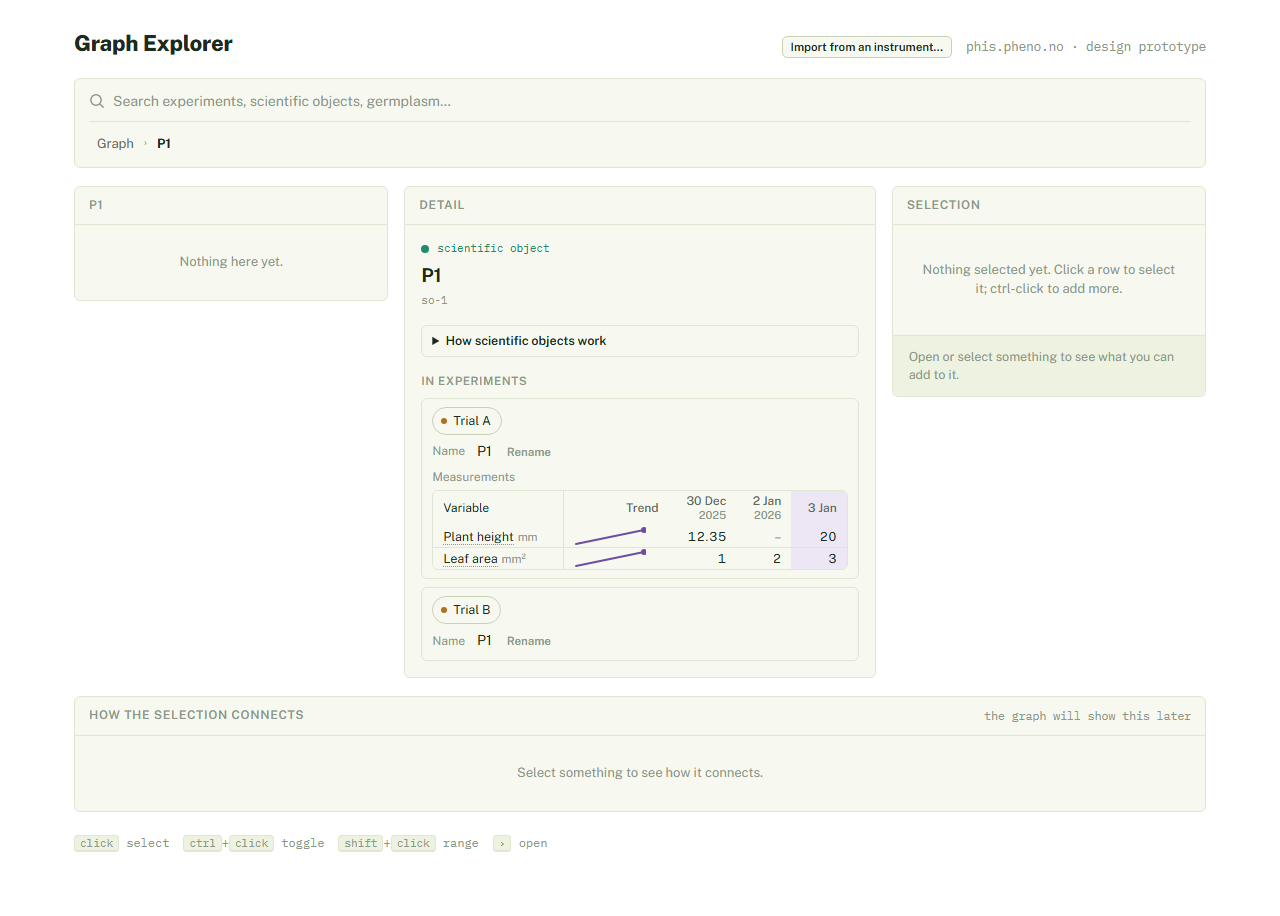
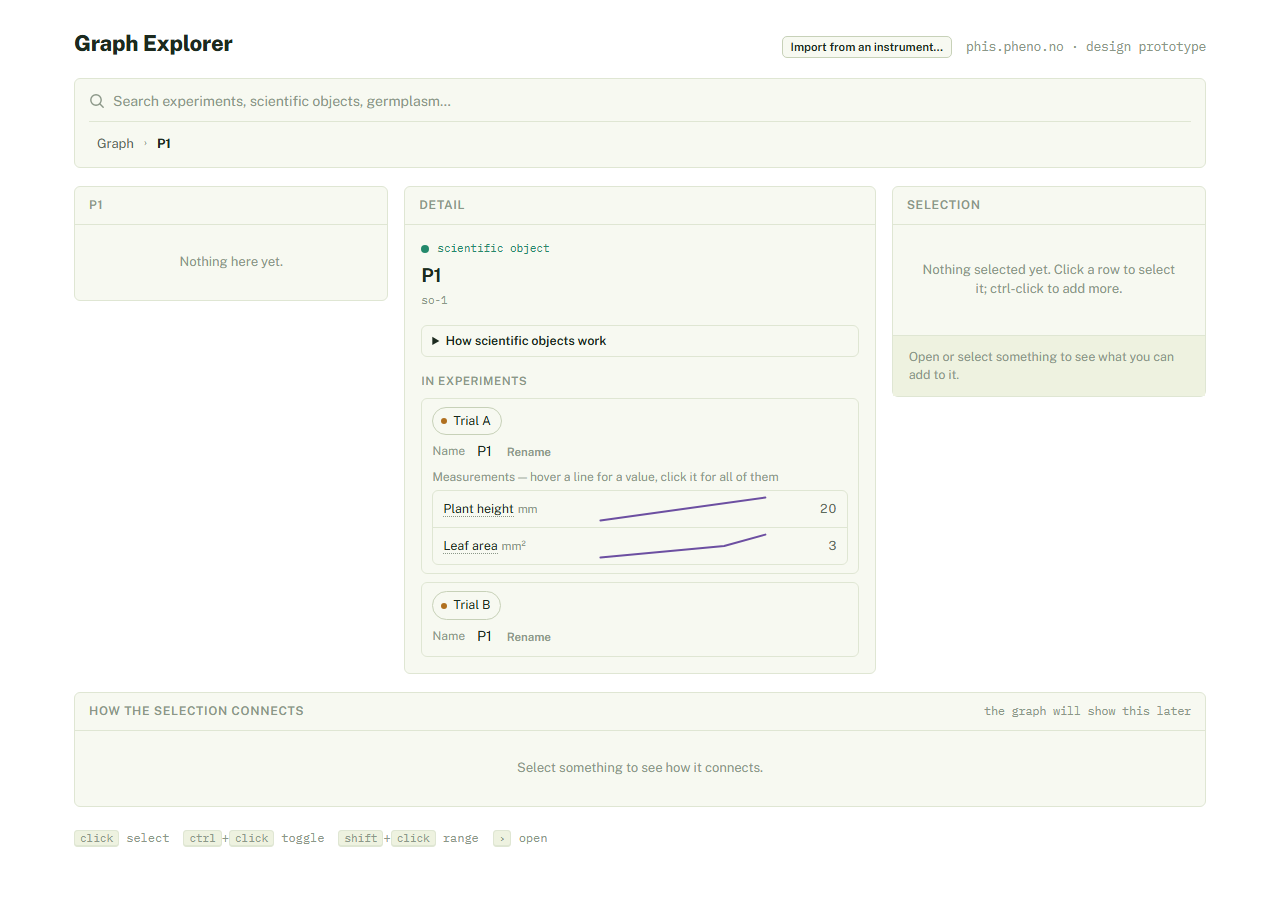
feat(graph-explorer): measurements as trend lines — hover for a value, click for the full picture

diff --git a/graph-explorer/public/index.html b/graph-explorer/public/index.html
@@ -457,25 +457,40 @@ button { font-family: inherit; }
 .item-box-rows { display: grid; grid-template-columns: max-content 1fr; gap: 6px 12px; align-items: center; }
 .item-box-key { font-size: 12px; color: var(--ink-faint); }
 .meas-title { font-size: 12px; color: var(--ink-faint); margin-bottom: 4px; }
-.meas-scroll { overflow-x: auto; border: 1px solid var(--border); border-radius: var(--radius); }
-.meas-table { border-collapse: separate; border-spacing: 0; font-size: 12.5px; width: max-content; min-width: 100%; }
-.meas-table th, .meas-table td { padding: 3px 10px; white-space: nowrap; border-bottom: 1px solid var(--border); }
-.meas-table tr:last-child th, .meas-table tr:last-child td { border-bottom: none; }
-.meas-table thead th { font-weight: 500; color: var(--ink-muted); text-align: right; font-size: 12px; line-height: 1.25; }
-.meas-table thead th small { display: block; color: var(--ink-faint); font-size: 11px; }
-.meas-table .meas-var { position: sticky; left: 0; z-index: 1; background: var(--surface); text-align: left; font-weight: 400; color: var(--ink); border-right: 1px solid var(--border); }
-.meas-table .meas-var a { color: var(--ink); cursor: pointer; text-decoration: none; border-bottom: 1px dotted var(--ink-faint); }
-.meas-table .meas-var a:hover { border-bottom-color: var(--ink); }
-.meas-table .meas-unit { color: var(--ink-faint); margin-left: 4px; font-size: 11.5px; }
-.meas-table td.num { text-align: right; font-variant-numeric: tabular-nums; color: var(--ink); }
-.meas-table td.none { color: var(--ink-faint); text-align: right; }
-.meas-table td.spark { padding: 0 10px; }
-.meas-table .col-on { background: var(--type-data-soft); }
-.meas-table .meas-var.col-on { background: var(--surface); }
-.meas-spark { display: block; }
-.meas-spark polyline { fill: none; stroke: var(--type-data); stroke-width: 2; stroke-linejoin: round; stroke-linecap: round; }
-.meas-spark circle { fill: var(--type-data); display: none; }
-.meas-spark circle.on { display: block; }
+.meas-list { display: flex; flex-direction: column; border: 1px solid var(--border); border-radius: var(--radius); }
+.meas-row { display: grid; grid-template-columns: minmax(130px, 36%) 1fr 56px; gap: 12px; align-items: center; padding: 3px 10px; border-bottom: 1px solid var(--border); font-size: 12.5px; }
+.meas-row:last-child { border-bottom: none; }
+.meas-name { min-width: 0; overflow-wrap: anywhere; }
+.meas-name a { color: var(--ink); cursor: pointer; border-bottom: 1px dotted var(--ink-faint); }
+.meas-name a:hover { border-bottom-color: var(--ink); }
+.meas-unit { color: var(--ink-faint); margin-left: 4px; font-size: 11.5px; }
+.meas-last { text-align: right; font-variant-numeric: tabular-nums; color: var(--ink-muted); }
+.meas-chart { position: relative; height: 30px; cursor: pointer; }
+.meas-chart.none { cursor: default; color: var(--ink-faint); font-size: 11.5px; line-height: 30px; }
+.meas-chart svg { position: absolute; inset: 0; width: 100%; height: 100%; overflow: visible; }
+.meas-chart polyline { fill: none; stroke: var(--type-data); stroke-width: 2; stroke-linejoin: round; stroke-linecap: round; }
+.meas-pt, .meas-dot { position: absolute; width: 7px; height: 7px; margin: -3.5px 0 0 -3.5px; border-radius: 50%; background: var(--type-data); pointer-events: none; }
+.meas-dot { width: 9px; height: 9px; margin: -4.5px 0 0 -4.5px; box-shadow: 0 0 0 3px var(--type-data-soft); }
+.meas-tip { position: absolute; bottom: 100%; margin-bottom: 4px; padding: 2px 7px; white-space: nowrap; font-size: 11.5px; background: var(--ink); color: var(--surface); border-radius: 4px; pointer-events: none; z-index: 5; }
+.meas-dialog { width: min(720px, 94vw); max-height: 90vh; padding: 16px 18px; border: 1px solid var(--border); border-radius: var(--radius); background: var(--surface); color: var(--ink); }
+.meas-dialog::backdrop { background: rgba(0, 0, 0, .45); }
+.meas-dlg-head { display: flex; justify-content: space-between; align-items: flex-start; gap: 12px; margin-bottom: 12px; }
+.meas-dlg-title { font-size: 16px; font-weight: 600; }
+.meas-dlg-sub { font-size: 12px; color: var(--ink-faint); margin-top: 2px; }
+.meas-chart.big { height: 220px; cursor: default; border: 1px solid var(--border); border-radius: var(--radius); }
+.meas-axis { position: absolute; left: 6px; font-size: 11px; color: var(--ink-faint); }
+.meas-axis.top { top: 4px; }
+.meas-axis.bottom { bottom: 4px; }
+.meas-axis-x { display: flex; justify-content: space-between; font-size: 11px; color: var(--ink-faint); margin: 4px 2px 12px; }
+.meas-stats { display: grid; grid-template-columns: repeat(auto-fit, minmax(90px, 1fr)); gap: 8px; margin-bottom: 12px; }
+.meas-stats div { display: flex; flex-direction: column; font-size: 11.5px; color: var(--ink-faint); }
+.meas-stats b { font-size: 14px; color: var(--ink); font-weight: 500; font-variant-numeric: tabular-nums; }
+.meas-values { max-height: 220px; overflow-y: auto; border: 1px solid var(--border); border-radius: var(--radius); }
+.meas-values table { width: 100%; border-collapse: collapse; font-size: 12.5px; }
+.meas-values th { position: sticky; top: 0; background: var(--surface); text-align: left; font-weight: 500; color: var(--ink-muted); }
+.meas-values th, .meas-values td { padding: 3px 10px; border-bottom: 1px solid var(--border); }
+.meas-values td:last-child, .meas-values th:last-child { text-align: right; font-variant-numeric: tabular-nums; }
+.meas-dlg-foot { margin-top: 12px; text-align: right; }
 .rel-empty { color: var(--ink-faint); font-size: 12.5px; }
 
 /* selection / CTA bar */
@@ -1927,7 +1942,7 @@ function renderNodeDetail(focusNode, { local } = { local: false }) {
     }
   };
   els.detailBody.querySelectorAll(".chip[data-openid]").forEach(chip => chip.addEventListener("click", (e) => onChipClick(chip, e)));
-  if (type === "scientific_object" && !unlinking) loadMeasurements(focusNode.id, onChipClick);
+  if (type === "scientific_object" && !unlinking) loadMeasurements(focusNode.id, focusNode.label, onChipClick);
 }
 
 // A plant's measured values in each experiment box: variables × scan dates, one row per variable
@@ -1938,37 +1953,81 @@ const UNIT_TEXT = { mm2: "mm²", mm3: "mm³" };
 const MONTHS = ["Jan", "Feb", "Mar", "Apr", "May", "Jun", "Jul", "Aug", "Sep", "Oct", "Nov", "Dec"];
 const sig4 = n => String(Number(n.toPrecision(4)));
 
-function measurementsTableHtml(data) {
-  const e = escapeHtml;
-  const dateOf = k => ({ day: Number(k.slice(8, 10)), month: MONTHS[Number(k.slice(5, 7)) - 1], year: k.slice(0, 4), time: k.length > 10 ? k.slice(11, 16) : "" });
-  let h = `<table class="meas-table"><thead><tr><th class="meas-var">Variable</th><th>Trend</th>`;
-  data.columns.forEach((c, i) => {
-    const d = dateOf(c.key), prev = i ? dateOf(data.columns[i - 1].key) : null;
-    h += `<th data-col="${i}">${d.day} ${d.month}${d.time ? `<small>${d.time}</small>` : ""}${!prev || prev.year !== d.year ? `<small>${d.year}</small>` : ""}</th>`;
+// One row per variable: name, a trend line that fills the row (hover = that scan's time and value,
+// click = the full picture in a dialog), and the latest value.
+const timeOf = k => Date.UTC(+k.slice(0, 4), +k.slice(5, 7) - 1, +k.slice(8, 10), k.length > 10 ? +k.slice(11, 13) : 0, k.length > 10 ? +k.slice(14, 16) : 0);
+const whenText = (key, at) => `${+key.slice(8, 10)} ${MONTHS[+key.slice(5, 7) - 1]} ${key.slice(0, 4)}${at ? " " + at : ""}`;
+const unitText = u => UNIT_TEXT[u] || u;
+
+// A variable's scans that have a value, placed 0-100 across and 0-100 down (0 = top) with a little margin.
+function measurementPoints(data, v) {
+  const pts = v.values.map((x, i) => x && Number.isFinite(x.v) ? { v: x.v, at: x.at, key: data.columns[i].key, t: timeOf(data.columns[i].key) } : null).filter(Boolean);
+  const t0 = Math.min(...pts.map(p => p.t)), t1 = Math.max(...pts.map(p => p.t));
+  const lo = Math.min(...pts.map(p => p.v)), hi = Math.max(...pts.map(p => p.v));
+  pts.forEach(p => {
+    p.x = 2 + 96 * (t1 === t0 ? 0.5 : (p.t - t0) / (t1 - t0));
+    p.y = 12 + 76 * (hi === lo ? 0.5 : 1 - (p.v - lo) / (hi - lo));
   });
-  h += `</tr></thead><tbody>`;
-  data.variables.forEach(v => {
-    const pts = v.values.map((x, i) => x && Number.isFinite(x.v) ? { i, v: x.v } : null).filter(Boolean);
-    const lo = Math.min(...pts.map(p => p.v)), hi = Math.max(...pts.map(p => p.v));
-    const W = 72, H = 20, n = Math.max(v.values.length - 1, 1);
-    const xy = p => `${(2 + p.i / n * (W - 4)).toFixed(1)},${(hi === lo ? H / 2 : H - 3 - (p.v - lo) / (hi - lo) * (H - 6)).toFixed(1)}`;
-    const spark = pts.length > 1
-      ? `<svg class="meas-spark" width="${W}" height="${H}" aria-hidden="true"><polyline points="${pts.map(xy).join(" ")}"/>${pts.map(p => `<circle class="" data-col="${p.i}" cx="${xy(p).split(",")[0]}" cy="${xy(p).split(",")[1]}" r="3"/>`).join("")}</svg>`
-      : "";
-    const unit = UNIT_TEXT[v.unit] || v.unit;
-    h += `<tr><th class="meas-var"><a data-openid="${e(v.id)}" data-type="variable">${e(v.name)}</a>${unit ? `<span class="meas-unit">${e(unit)}</span>` : ""}</th><td class="spark">${spark}</td>`;
-    v.values.forEach((x, i) => {
-      const c = data.columns[i], d = dateOf(c.key);
-      h += x && Number.isFinite(x.v)
-        ? `<td class="num" data-col="${i}" title="${e(`${x.v}${unit ? " " + unit : ""} · ${d.day} ${d.month} ${d.year} ${x.at}`)}">${sig4(x.v)}</td>`
-        : `<td class="none" data-col="${i}">–</td>`;
-    });
-    h += `</tr>`;
-  });
-  return h + `</tbody></table>`;
+  return pts;
 }
 
-function loadMeasurements(objectId, onChipClick) {
+function chartHtml(pts, big) {
+  const line = pts.length > 1 ? `<svg viewBox="0 0 100 100" preserveAspectRatio="none" aria-hidden="true"><polyline vector-effect="non-scaling-stroke" points="${pts.map(p => `${p.x.toFixed(1)},${p.y.toFixed(1)}`).join(" ")}"/></svg>` : "";
+  const dots = big || pts.length === 1 ? pts.map(p => `<span class="meas-pt" style="left:${p.x}%;top:${p.y}%"></span>`).join("") : "";
+  return `${line}${dots}<span class="meas-dot"></span><span class="meas-tip"></span>`;
+}
+
+// Hovering a chart picks the nearest scan: its point lights up and a tip names the time and value.
+function wireChart(chart, pts, unit) {
+  const dot = chart.querySelector(".meas-dot"), tip = chart.querySelector(".meas-tip");
+  const off = () => { dot.style.display = tip.style.display = "none"; };
+  chart.addEventListener("mousemove", ev => {
+    const r = chart.getBoundingClientRect();
+    const fx = (ev.clientX - r.left) / r.width * 100;
+    const p = pts.reduce((a, b) => Math.abs(b.x - fx) < Math.abs(a.x - fx) ? b : a);
+    dot.style.cssText = `display:block;left:${p.x}%;top:${p.y}%`;
+    tip.textContent = `${whenText(p.key, p.at)} · ${sig4(p.v)}${unit ? " " + unit : ""}`;
+    tip.style.cssText = `display:block;left:${p.x}%;transform:translateX(-${p.x}%)`;
+  });
+  chart.addEventListener("mouseleave", off);
+  off();
+}
+
+function measurementsHtml(data) {
+  const e = escapeHtml;
+  return `<div class="meas-list">${data.variables.map((v, i) => {
+    const pts = measurementPoints(data, v), last = pts[pts.length - 1], unit = unitText(v.unit);
+    return `<div class="meas-row"><div class="meas-name"><a data-openid="${e(v.id)}" data-type="variable">${e(v.name)}</a>${unit ? `<span class="meas-unit">${e(unit)}</span>` : ""}</div>`
+      + (pts.length
+        ? `<div class="meas-chart" data-var="${i}" title="Click for all values">${chartHtml(pts)}</div><div class="meas-last" title="${e(`Latest: ${last.v}${unit ? " " + unit : ""}, ${whenText(last.key, last.at)}`)}">${sig4(last.v)}</div>`
+        : `<div class="meas-chart none">no values</div><div class="meas-last"></div>`)
+      + `</div>`;
+  }).join("")}</div>`;
+}
+
+// The full picture for one variable on one plant: a big chart, the numbers that summarise it, and every value.
+function openMeasurementDialog(data, v, plantLabel, expLabel, onOpenVariable) {
+  const e = escapeHtml, pts = measurementPoints(data, v), unit = unitText(v.unit);
+  const vals = pts.map(p => p.v), mean = vals.reduce((a, b) => a + b, 0) / vals.length;
+  const stat = (k, x) => `<div><span>${k}</span><b>${e(x)}</b></div>`;
+  const dlg = document.createElement("dialog");
+  dlg.className = "meas-dialog";
+  dlg.innerHTML = `<div class="meas-dlg-head"><div><div class="meas-dlg-title">${e(v.name)}${unit ? `<span class="meas-unit">${e(unit)}</span>` : ""}</div>
+      <div class="meas-dlg-sub">${e(plantLabel)} · ${e(expLabel)}</div></div><button class="btn ghost small" data-close>Close</button></div>
+    <div class="meas-chart big">${chartHtml(pts, true)}<span class="meas-axis top">${sig4(Math.max(...vals))}</span><span class="meas-axis bottom">${sig4(Math.min(...vals))}</span></div>
+    <div class="meas-axis-x"><span>${e(whenText(pts[0].key))}</span><span>${e(whenText(pts[pts.length - 1].key))}</span></div>
+    <div class="meas-stats">${stat("Scans", pts.length)}${stat("Min", sig4(Math.min(...vals)))}${stat("Max", sig4(Math.max(...vals)))}${stat("Mean", sig4(mean))}${stat("First", sig4(vals[0]))}${stat("Latest", sig4(vals[vals.length - 1]))}</div>
+    <div class="meas-values"><table><thead><tr><th>Date</th><th>Time</th><th>Value${unit ? ` (${e(unit)})` : ""}</th></tr></thead><tbody>${pts.map(p => `<tr><td>${e(whenText(p.key))}</td><td>${e(p.at)}</td><td>${e(p.v)}</td></tr>`).join("")}</tbody></table></div>
+    <div class="meas-dlg-foot"><button class="btn ghost small" data-var>Open ${e(v.name)}</button></div>`;
+  document.body.appendChild(dlg);
+  wireChart(dlg.querySelector(".meas-chart"), pts, unit);
+  dlg.addEventListener("click", ev => { if (ev.target === dlg || ev.target.closest("[data-close]")) dlg.close(); });
+  dlg.querySelector("[data-var]").addEventListener("click", ev => { dlg.close(); onOpenVariable(ev); });
+  dlg.addEventListener("close", () => dlg.remove());
+  dlg.showModal();
+}
+
+function loadMeasurements(objectId, objectLabel, onChipClick) {
   els.detailBody.querySelectorAll("[data-meas-exp]").forEach(async box => {
     const exp = box.dataset.measExp, key = `${objectId}|${exp}`;
     box.innerHTML = `<div class="meas-title">Measurements — loading…</div>`;
@@ -1981,18 +2040,15 @@ function loadMeasurements(objectId, onChipClick) {
     if (!box.isConnected) return;
     if (!data) { box.innerHTML = `<div class="meas-title">Measurements couldn't be loaded.</div>`; return; }
     if (!data.variables.length) { box.remove(); return; }
-    box.innerHTML = `<div class="meas-title">Measurements</div><div class="meas-scroll">${measurementsTableHtml(data)}</div>`;
+    box.innerHTML = `<div class="meas-title">Measurements — hover a line for a value, click it for all of them</div>${measurementsHtml(data)}`;
+    const expLabel = box.closest(".item-box")?.querySelector(".chip")?.textContent.trim() ?? "";
     box.querySelectorAll("a[data-openid]").forEach(a => a.addEventListener("click", ev => onChipClick(a, ev)));
-    // Hovering a value lights up its date and its point on the trend line.
-    const table = box.querySelector("table");
-    const light = col => {
-      table.querySelectorAll(".col-on").forEach(x => x.classList.remove("col-on"));
-      table.querySelectorAll("circle.on").forEach(x => x.classList.remove("on"));
-      if (col == null) return;
-      table.querySelectorAll(`[data-col="${col}"]`).forEach(x => x.classList.add(x.tagName === "circle" ? "on" : "col-on"));
-    };
-    table.addEventListener("mouseover", ev => light(ev.target.closest("[data-col]")?.dataset.col ?? null));
-    table.addEventListener("mouseleave", () => light(null));
+    box.querySelectorAll(".meas-chart[data-var]").forEach(chart => {
+      const v = data.variables[Number(chart.dataset.var)], pts = measurementPoints(data, v), unit = unitText(v.unit);
+      wireChart(chart, pts, unit);
+      const nameLink = chart.closest(".meas-row").querySelector("a[data-openid]");
+      chart.addEventListener("click", () => openMeasurementDialog(data, v, objectLabel, expLabel, ev => onChipClick(nameLink, ev)));
+    });
   });
 }
 

diff --git a/graph-explorer/test/e2e.test.ts b/graph-explorer/test/e2e.test.ts
@@ -465,7 +465,7 @@ test("e2e: a scientific object's experiment box shows its name there; Rename in 
   });
 });
 
-test("e2e: a plant's experiment box shows its measurements as variables × dates; empty experiments show none; a variable's name opens its page; hover lights the date", async () => {
+test("e2e: a plant's experiment box shows its measurements as a trend line per variable; hover gives a value, click gives all of them; empty experiments show none; a variable's name opens its page", async () => {
   await withServerAndBrowser(async (base, page) => {
     const box = (id: string, label: string) => ({ id, type: "experiment", label, name: "P1", groups: [] });
     await page.route("**/api/node-detail*", (r) => r.fulfill({ status: 200, contentType: "application/json", body: JSON.stringify({
@@ -487,21 +487,32 @@ test("e2e: a plant's experiment box shows its measurements as variables × dates
     await page.evaluate(() => openNode({ id: "so-1", type: "scientific_object", label: "P1" }));
     await page.waitForTimeout(600);
     const boxA = page.locator(".item-box", { hasText: "Trial A" });
-    const text = await boxA.locator(".meas-table").innerText();
-    assert.match(text, /30 Dec\s+2025/, "the year shows where the table starts");
-    assert.match(text, /2 Jan\s+2026/, "and where it changes");
-    assert.doesNotMatch(text, /3 Jan\s+2026/, "but not on every column");
-    assert.match(text, /Plant height\s*mm/);
-    assert.match(text, /Leaf area\s*mm²/);
-    assert.match(text, /12\.35/, "four significant digits");
-    assert.equal(await page.locator(".item-box", { hasText: "Trial B" }).locator(".meas-table").count(), 0, "nothing to show -> no table");
+    assert.equal(await boxA.locator(".meas-row").count(), 2, "one row per variable");
+    const text = await boxA.locator(".meas-list").innerText();
+    assert.match(text, /Plant heights*mm/);
+    assert.match(text, /Leaf areas*mm²/);
+    assert.equal(await boxA.locator(".meas-row", { hasText: "Plant height" }).locator(".meas-last").innerText(), "20", "latest value on the right");
+    assert.equal(await page.locator(".item-box", { hasText: "Trial B" }).locator(".meas-list").count(), 0, "nothing to show -> no list");
     assert.equal(await page.locator(".item-box", { hasText: "Trial B" }).locator("[data-meas-exp]").count(), 0, "and no leftover box");
-    assert.equal(await boxA.locator("td.none").count(), 1);
 
-    await boxA.locator("td.num", { hasText: "20" }).hover();
-    assert.equal(await boxA.locator("th.col-on").count(), 1, "the date column lights up");
-    assert.equal(await boxA.locator("circle.on").count(), 2, "and its point on each trend line");
+    const chart = boxA.locator(".meas-row", { hasText: "Plant height" }).locator(".meas-chart");
+    const r = (await chart.boundingBox())!;
+    await page.mouse.move(r.x + 2, r.y + r.height / 2);
+    assert.match(await chart.locator(".meas-tip").innerText(), /30 Dec 2025 10:00 · 12.35 mm/, "hover names the scan's time and value");
+    await page.mouse.move(r.x + r.width - 2, r.y + r.height / 2);
+    assert.match(await chart.locator(".meas-tip").innerText(), /3 Jan 2026 10:00 · 20 mm/);
 
+    await chart.click();
+    const dlg = page.locator("dialog.meas-dialog");
+    assert.equal(await dlg.count(), 1, "clicking the chart opens the full picture");
+    const dt = await dlg.innerText();
+    assert.match(dt, /Plant height/);
+    assert.match(dt, /12.34567/, "every value at full precision");
+    assert.equal(await dlg.locator(".meas-values tbody tr").count(), 2, "only scans that have a value");
+    await page.screenshot({ path: (process.env.MEAS_SHOT || "measurements.png").replace(".png", "-dialog.png") }).catch(() => {});
+    await dlg.locator("[data-close]").click();
+    await page.waitForTimeout(100);
+    assert.equal(await page.locator("dialog.meas-dialog").count(), 0, "Close removes it");
     await page.screenshot({ path: process.env.MEAS_SHOT || "measurements.png", fullPage: true }).catch(() => {});
     await boxA.locator("a[data-openid='var-1']").click();
     await page.waitForTimeout(300);
